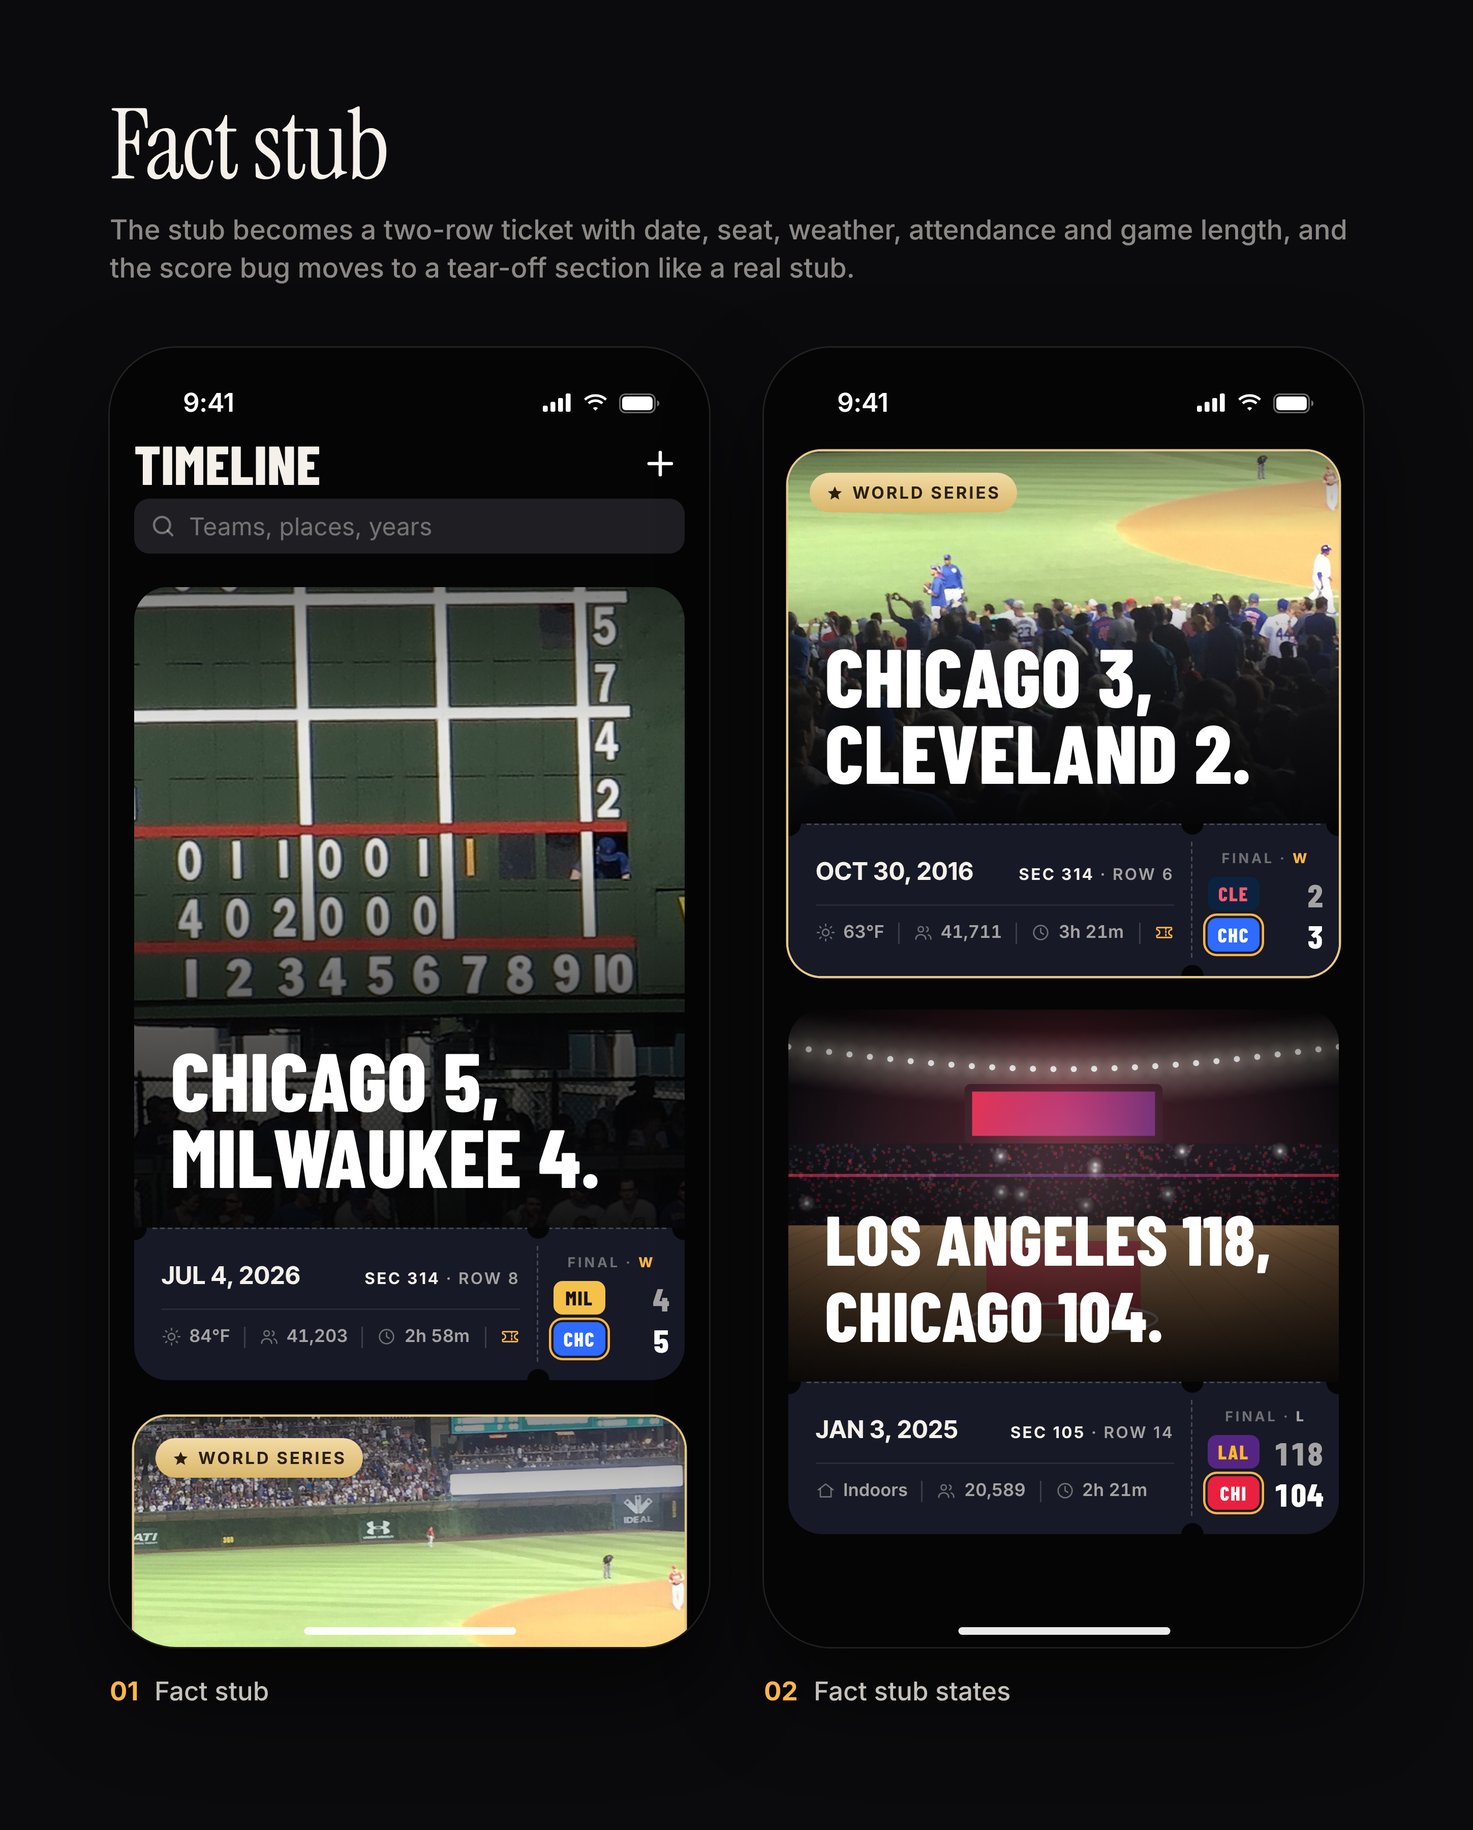
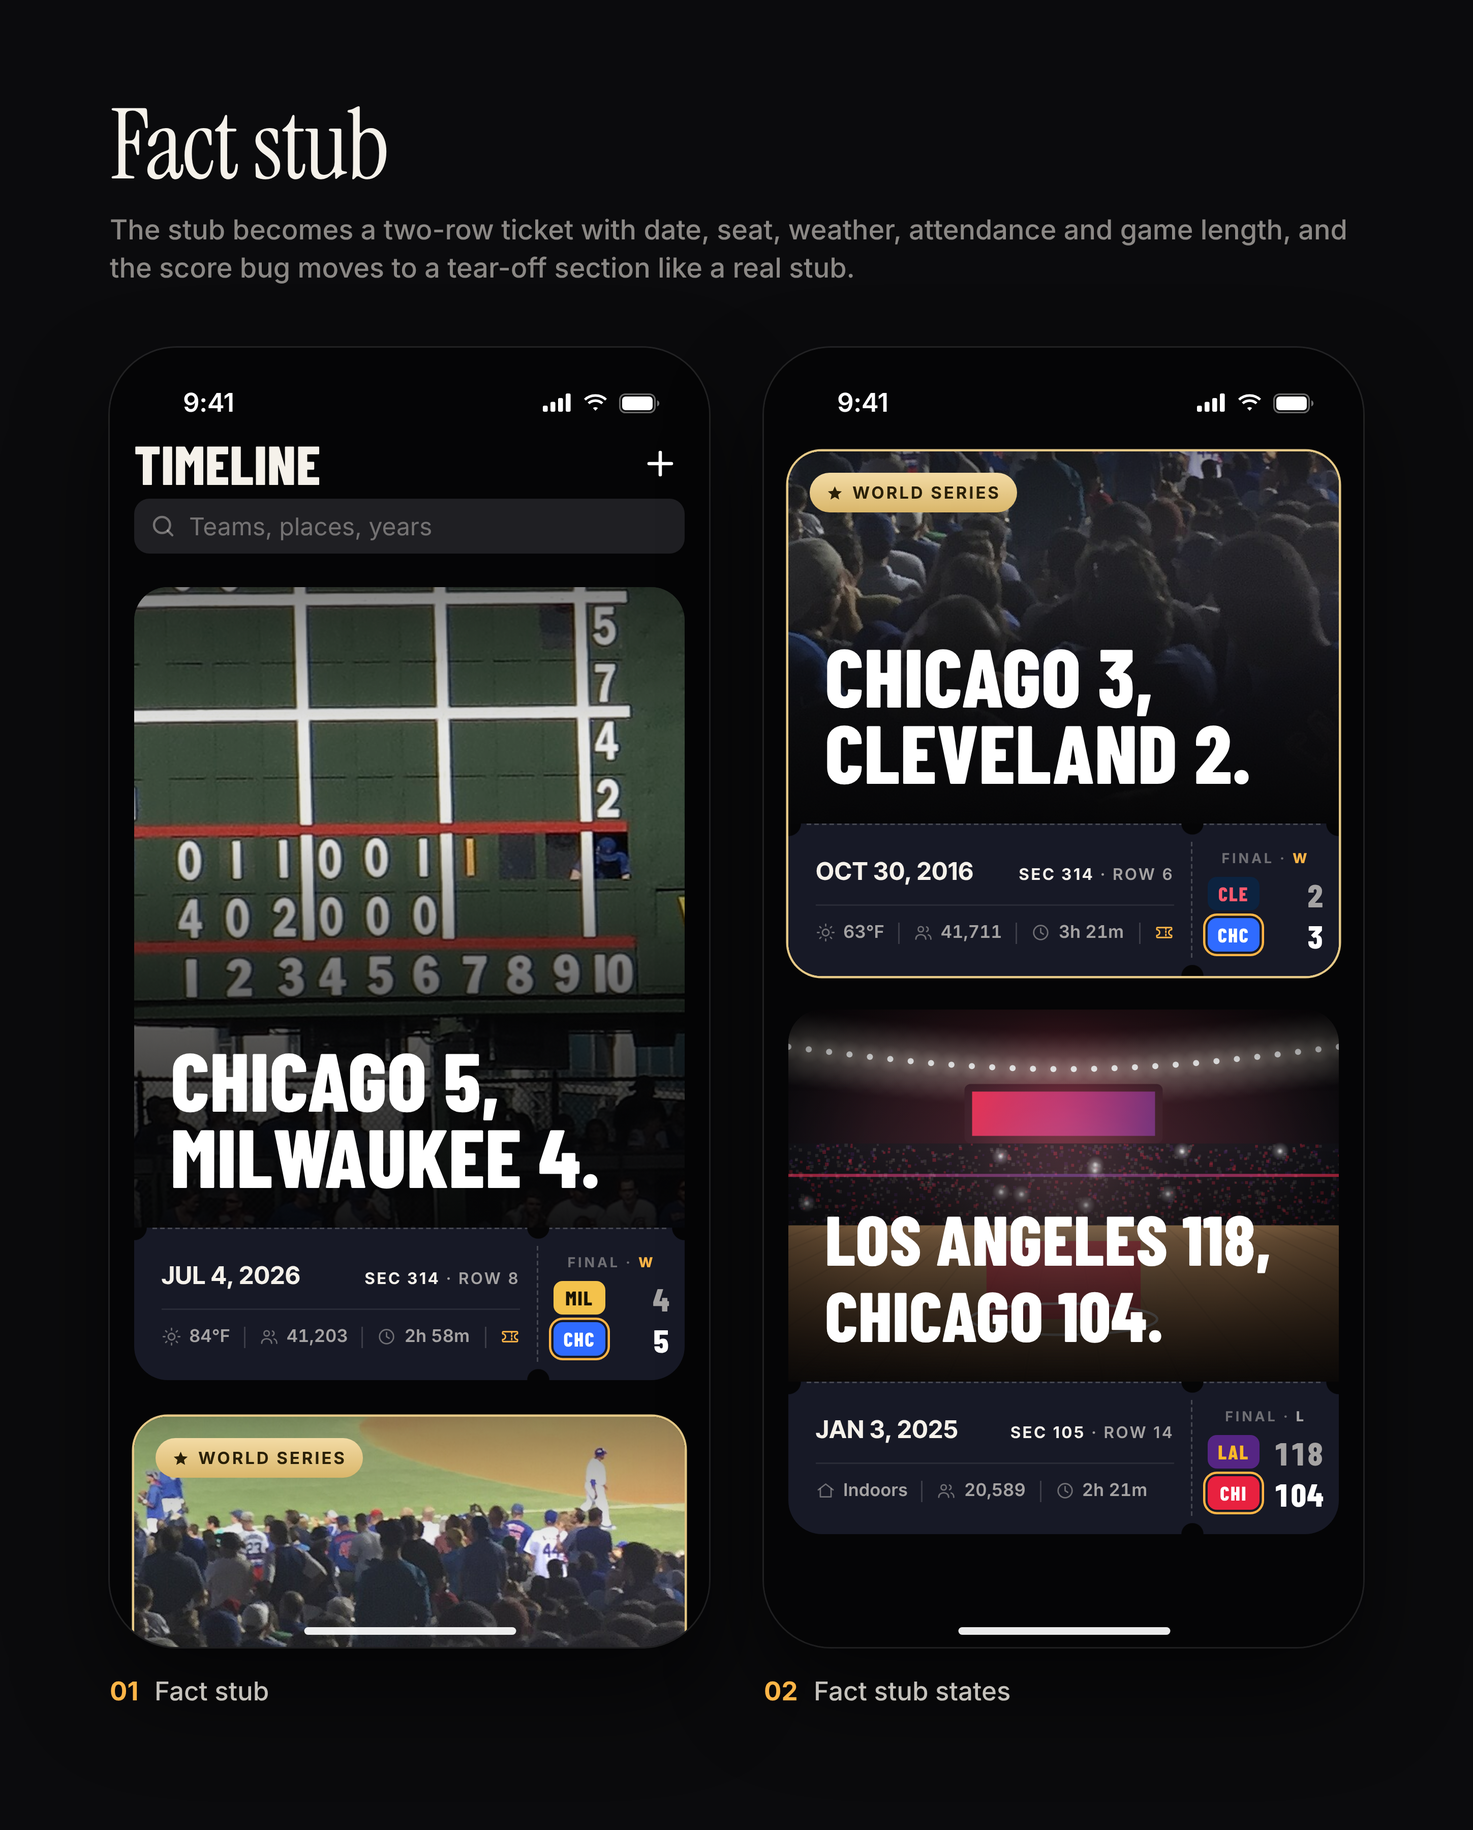
Timeline card tweaks: all ten mockups
Claude-Session: https://claude.ai/code/session_01YKCsRGYnDsF5Pryete24Wa

Changed region(s): [[0.0932, 0.7467, 0.4658, 0.9022], [0.528, 0.2489, 0.9317, 0.3733]]

diff --git a/mockups/timeline-cards/features/04-people-photos/v1-main.html b/mockups/timeline-cards/features/04-people-photos/v1-main.html
@@ -54,7 +54,7 @@ svg.i{width:13px;height:13px;stroke:currentColor;fill:none;stroke-width:1.7;stro
 <div class="search"><svg width="18" height="18" viewBox="0 0 24 24" fill="none" stroke="currentColor" stroke-width="2" stroke-linecap="round"><circle cx="11" cy="11" r="7"/><path d="M20 20l-4-4"/></svg>Teams, places, years</div><div class="card" style="top:157px"><div class="clip">
 <div class="photo" style="height:420px"><img class="ph graded" src="../../../photos/wrigley-scoreboard.jpg" style="object-position:35% 50%"><div class="scrim top"></div><div class="hl" style="font-size:48px">Chicago 5,<br>Milwaukee 4.</div><div class="poly"><div class="pl a"><div style="background-image:url(../../../photos/wrigley-bleachers.jpg);background-position:60% 50%;background-size:cover"></div></div><div class="pl b"><div style="background-image:url(../../../photos/wrigley-night-2.jpg);background-position:72% 66%;background-size:230%"></div></div><div class="pl c"><div style="background-image:url(../../../photos/wrigley-night.jpg);background-position:30% 62%;background-size:210%"></div><em>+59</em></div></div></div>
 <div class="stub"><div class="sl"><span class="date">Jul 4, 2026</span><div class="pp"><span class="av"><i style="background:#b79cff">D</i><i style="background:#8fe3a0">R</i></span><span class="cnt"><svg class="i" viewBox="0 0 24 24"><path d="M4 8.5A1.5 1.5 0 0 1 5.5 7H8l1.4-2h5.2L16 7h2.5A1.5 1.5 0 0 1 20 8.5v9a1.5 1.5 0 0 1-1.5 1.5h-13A1.5 1.5 0 0 1 4 17.5z"/><circle cx="12" cy="13" r="3.4"/></svg>63 photos</span></div></div><div class="bug"><span class="tile" style="background:#f4c24b;color:#1a1405">MIL</span><span class="sc">4</span><span class="gap"></span><span class="tile rt" style="background:#2f6bff;color:#fff">CHC</span><span class="sc me">5</span></div></div></div></div><div class="card big" style="top:701px"><div class="clip">
-<div class="photo" style="height:420px"><div style="position:absolute;inset:0;background:url(../../../photos/wrigley-night.jpg) -306px -418px/785px 1046px no-repeat"></div><div class="scrim top"></div><div class="badge"><svg width="11" height="11" viewBox="0 0 24 24" fill="#2a2008"><path d="M12 2l2.9 6.6 7.1.6-5.4 4.7 1.6 7L12 17.3 5.8 20.9l1.6-7L2 9.2l7.1-.6z"/></svg>World Series</div><div class="hl" style="font-size:48px">Chicago 3,<br>Cleveland 2.</div><div class="poly"><div class="pl a"><div style="background-image:url(../../../photos/wrigley-bleachers.jpg);background-position:30% 50%;background-size:cover"></div></div><div class="pl b"><div style="background-image:url(../../../photos/wrigley-night-2.jpg);background-position:72% 66%;background-size:230%"></div></div><div class="pl c"><div style="background-image:url(../../../photos/wrigley-scoreboard-wide.jpg);background-position:25% 60%;background-size:240%"></div><em>+59</em></div></div></div>
+<div class="photo" style="height:420px"><div style="position:absolute;inset:0;background:url(../../../photos/wrigley-night.jpg) -451px -632px/902px 1203px no-repeat"></div><div class="scrim top"></div><div class="badge"><svg width="11" height="11" viewBox="0 0 24 24" fill="#2a2008"><path d="M12 2l2.9 6.6 7.1.6-5.4 4.7 1.6 7L12 17.3 5.8 20.9l1.6-7L2 9.2l7.1-.6z"/></svg>World Series</div><div class="hl" style="font-size:48px">Chicago 3,<br>Cleveland 2.</div><div class="poly"><div class="pl a"><div style="background-image:url(../../../photos/wrigley-bleachers.jpg);background-position:30% 50%;background-size:cover"></div></div><div class="pl b"><div style="background-image:url(../../../photos/wrigley-night-2.jpg);background-position:72% 66%;background-size:230%"></div></div><div class="pl c"><div style="background-image:url(../../../photos/wrigley-scoreboard-wide.jpg);background-position:25% 60%;background-size:240%"></div><em>+59</em></div></div></div>
 <div class="stub"><div class="sl"><span class="date">Oct 30, 2016</span><div class="pp"><span class="av"><i style="background:#8fe3a0">R</i></span><span class="cnt"><svg class="i" viewBox="0 0 24 24"><path d="M4 8.5A1.5 1.5 0 0 1 5.5 7H8l1.4-2h5.2L16 7h2.5A1.5 1.5 0 0 1 20 8.5v9a1.5 1.5 0 0 1-1.5 1.5h-13A1.5 1.5 0 0 1 4 17.5z"/><circle cx="12" cy="13" r="3.4"/></svg>63 photos</span></div></div><div class="bug"><span class="tile" style="background:#0c2340;color:#ff5a6e">CLE</span><span class="sc">2</span><span class="gap"></span><span class="tile rt" style="background:#2f6bff;color:#fff">CHC</span><span class="sc me">3</span></div></div></div></div>
 <script src="../../../kit/kit.js"></script>
 </body></html>

diff --git a/mockups/timeline-cards/features/03-fact-stub/v1-main.html b/mockups/timeline-cards/features/03-fact-stub/v1-main.html
@@ -51,7 +51,7 @@ svg.i{width:13px;height:13px;stroke:currentColor;fill:none;stroke-width:1.7;stro
 <div class="photo" style="height:420px"><img class="ph graded" src="../../../photos/wrigley-scoreboard.jpg" style="object-position:35% 50%"><div class="scrim top"></div><div class="hl">Chicago 5,<br>Milwaukee 4.</div></div>
 <div class="stub"><div class="main"><div class="r1"><span class="date">Jul 4, 2026</span><span class="seat"><b>Sec 314</b> · Row 8</span></div><div class="r2"><span class="f"><svg class="i" viewBox="0 0 24 24"><circle cx="12" cy="12" r="4"/><path d="M12 2v2M12 20v2M2 12h2M20 12h2M4.9 4.9l1.4 1.4M17.7 17.7l1.4 1.4M4.9 19.1l1.4-1.4M17.7 6.3l1.4-1.4"/></svg>84°F</span><span class="f"><svg class="i" viewBox="0 0 24 24"><circle cx="9" cy="8" r="3.2"/><path d="M3 20c0-3.5 2.7-5.5 6-5.5s6 2 6 5.5"/><path d="M16 5.2a3 3 0 0 1 0 5.6M18 14.8c2 .7 3.2 2.4 3.2 5.2"/></svg>41,203</span><span class="f"><svg class="i" viewBox="0 0 24 24"><circle cx="12" cy="12" r="8.5"/><path d="M12 7v5l3.2 2"/></svg>2h 58m</span><span class="f tk"><svg class="i" viewBox="0 0 24 24"><path d="M3 8.5V7a1 1 0 0 1 1-1h16a1 1 0 0 1 1 1v1.5a3.5 3.5 0 0 0 0 7V17a1 1 0 0 1-1 1H4a1 1 0 0 1-1-1v-1.5a3.5 3.5 0 0 0 0-7z"/><path d="M14 6.5v11" stroke-dasharray="1.6 2.2"/></svg></span></div></div><div class="perf"></div>
 <div class="tear"><div class="fin">FINAL · <b class="">W</b></div><div class="row"><span class="tile" style="background:#f4c24b;color:#1a1405">MIL</span><span class="sc tnum">4</span></div><div class="row me"><span class="tile" style="background:#2f6bff;color:#fff">CHC</span><span class="sc tnum">5</span></div></div></div></div></div><div class="card big" style="top:701px"><div class="clip">
-<div class="photo" style="height:420px"><div style="position:absolute;inset:0;background:url(../../../photos/wrigley-night.jpg) -306px -418px/785px 1046px no-repeat"></div><div class="scrim top"></div><div class="badge"><svg width="11" height="11" viewBox="0 0 24 24" fill="#2a2008"><path d="M12 2l2.9 6.6 7.1.6-5.4 4.7 1.6 7L12 17.3 5.8 20.9l1.6-7L2 9.2l7.1-.6z"/></svg>World Series</div><div class="hl">Chicago 3,<br>Cleveland 2.</div></div>
+<div class="photo" style="height:420px"><div style="position:absolute;inset:0;background:url(../../../photos/wrigley-night.jpg) -451px -632px/902px 1203px no-repeat"></div><div class="scrim top"></div><div class="badge"><svg width="11" height="11" viewBox="0 0 24 24" fill="#2a2008"><path d="M12 2l2.9 6.6 7.1.6-5.4 4.7 1.6 7L12 17.3 5.8 20.9l1.6-7L2 9.2l7.1-.6z"/></svg>World Series</div><div class="hl">Chicago 3,<br>Cleveland 2.</div></div>
 <div class="stub"><div class="main"><div class="r1"><span class="date">Oct 30, 2016</span><span class="seat"><b>Sec 314</b> · Row 6</span></div><div class="r2"><span class="f"><svg class="i" viewBox="0 0 24 24"><circle cx="12" cy="12" r="4"/><path d="M12 2v2M12 20v2M2 12h2M20 12h2M4.9 4.9l1.4 1.4M17.7 17.7l1.4 1.4M4.9 19.1l1.4-1.4M17.7 6.3l1.4-1.4"/></svg>63°F</span><span class="f"><svg class="i" viewBox="0 0 24 24"><circle cx="9" cy="8" r="3.2"/><path d="M3 20c0-3.5 2.7-5.5 6-5.5s6 2 6 5.5"/><path d="M16 5.2a3 3 0 0 1 0 5.6M18 14.8c2 .7 3.2 2.4 3.2 5.2"/></svg>41,711</span><span class="f"><svg class="i" viewBox="0 0 24 24"><circle cx="12" cy="12" r="8.5"/><path d="M12 7v5l3.2 2"/></svg>3h 21m</span><span class="f tk"><svg class="i" viewBox="0 0 24 24"><path d="M3 8.5V7a1 1 0 0 1 1-1h16a1 1 0 0 1 1 1v1.5a3.5 3.5 0 0 0 0 7V17a1 1 0 0 1-1 1H4a1 1 0 0 1-1-1v-1.5a3.5 3.5 0 0 0 0-7z"/><path d="M14 6.5v11" stroke-dasharray="1.6 2.2"/></svg></span></div></div><div class="perf"></div>
 <div class="tear"><div class="fin">FINAL · <b class="">W</b></div><div class="row"><span class="tile" style="background:#0c2340;color:#ff5a6e">CLE</span><span class="sc tnum">2</span></div><div class="row me"><span class="tile" style="background:#2f6bff;color:#fff">CHC</span><span class="sc tnum">3</span></div></div></div></div></div>
 <script src="../../../kit/kit.js"></script>

diff --git a/mockups/timeline-cards/features/04-people-photos/v2-states.html b/mockups/timeline-cards/features/04-people-photos/v2-states.html
@@ -51,7 +51,7 @@ svg.i{width:13px;height:13px;stroke:currentColor;fill:none;stroke-width:1.7;stro
 </style></head>
 <body class="phone">
 <div class="card big" style="top:68px"><div class="clip">
-<div class="photo" style="height:244px"><div style="position:absolute;inset:0;background:url(../../../photos/wrigley-night.jpg) -306px -506px/785px 1046px no-repeat"></div><div class="scrim top"></div><div class="badge"><svg width="11" height="11" viewBox="0 0 24 24" fill="#2a2008"><path d="M12 2l2.9 6.6 7.1.6-5.4 4.7 1.6 7L12 17.3 5.8 20.9l1.6-7L2 9.2l7.1-.6z"/></svg>World Series</div><div class="hl" style="font-size:48px">Chicago 3,<br>Cleveland 2.</div><div class="poly"><div class="pl a"><div style="background-image:url(../../../photos/wrigley-bleachers.jpg);background-position:30% 50%;background-size:cover"></div></div><div class="pl b"><div style="background-image:url(../../../photos/wrigley-night-2.jpg);background-position:72% 66%;background-size:230%"></div></div><div class="pl c"><div style="background-image:url(../../../photos/wrigley-scoreboard-wide.jpg);background-position:25% 60%;background-size:240%"></div><em>+59</em></div></div></div>
+<div class="photo" style="height:244px"><div style="position:absolute;inset:0;background:url(../../../photos/wrigley-night.jpg) -451px -720px/902px 1203px no-repeat"></div><div class="scrim top"></div><div class="badge"><svg width="11" height="11" viewBox="0 0 24 24" fill="#2a2008"><path d="M12 2l2.9 6.6 7.1.6-5.4 4.7 1.6 7L12 17.3 5.8 20.9l1.6-7L2 9.2l7.1-.6z"/></svg>World Series</div><div class="hl" style="font-size:48px">Chicago 3,<br>Cleveland 2.</div><div class="poly"><div class="pl a"><div style="background-image:url(../../../photos/wrigley-bleachers.jpg);background-position:30% 50%;background-size:cover"></div></div><div class="pl b"><div style="background-image:url(../../../photos/wrigley-night-2.jpg);background-position:72% 66%;background-size:230%"></div></div><div class="pl c"><div style="background-image:url(../../../photos/wrigley-scoreboard-wide.jpg);background-position:25% 60%;background-size:240%"></div><em>+59</em></div></div></div>
 <div class="stub"><div class="sl"><span class="date">Oct 30, 2016</span><div class="pp"><span class="av"><i style="background:#8fe3a0">R</i></span><span class="cnt"><svg class="i" viewBox="0 0 24 24"><path d="M4 8.5A1.5 1.5 0 0 1 5.5 7H8l1.4-2h5.2L16 7h2.5A1.5 1.5 0 0 1 20 8.5v9a1.5 1.5 0 0 1-1.5 1.5h-13A1.5 1.5 0 0 1 4 17.5z"/><circle cx="12" cy="13" r="3.4"/></svg>63 photos</span></div></div><div class="bug"><span class="tile" style="background:#0c2340;color:#ff5a6e">CLE</span><span class="sc">2</span><span class="gap"></span><span class="tile rt" style="background:#2f6bff;color:#fff">CHC</span><span class="sc me">3</span></div></div></div></div><div class="card" style="top:434px"><div class="clip">
 <div class="photo" style="height:244px"><canvas class="photo" data-style="arena" data-seed="11" data-accent="#e8213f" data-secondary="#552583" data-board="LAL 118|CHI 104"></canvas><div class="scrim top"></div><div class="hl" style="font-size:46px">Los Angeles 118,<br>Chicago 104.</div></div>
 <div class="stub"><div class="sl"><span class="date">Jan 3, 2025</span><div class="pp"><span class="av"><i class="ghost"><svg class="i" viewBox="0 0 24 24"><path d="M12 5v14M5 12h14"/></svg></i></span><span class="add"><svg class="i" viewBox="0 0 24 24"><path d="M4 8.5A1.5 1.5 0 0 1 5.5 7H8l1.4-2h5.2L16 7h2.5A1.5 1.5 0 0 1 20 8.5v9a1.5 1.5 0 0 1-1.5 1.5h-13A1.5 1.5 0 0 1 4 17.5z"/><circle cx="12" cy="13" r="3.4"/></svg>Add photos</span></div></div><div class="bug"><span class="tile" style="background:#552583;color:#fdb927">LAL</span><span class="sc">118</span><span class="gap"></span><span class="tile rt" style="background:#e8213f;color:#fff">CHI</span><span class="sc me">104</span></div></div></div></div>

diff --git a/mockups/timeline-cards/features/03-fact-stub/v2-states.html b/mockups/timeline-cards/features/03-fact-stub/v2-states.html
@@ -47,7 +47,7 @@ svg.i{width:13px;height:13px;stroke:currentColor;fill:none;stroke-width:1.7;stro
 </style></head>
 <body class="phone">
 <div class="card big" style="top:68px"><div class="clip">
-<div class="photo" style="height:244px"><div style="position:absolute;inset:0;background:url(../../../photos/wrigley-night.jpg) -306px -506px/785px 1046px no-repeat"></div><div class="scrim top"></div><div class="badge"><svg width="11" height="11" viewBox="0 0 24 24" fill="#2a2008"><path d="M12 2l2.9 6.6 7.1.6-5.4 4.7 1.6 7L12 17.3 5.8 20.9l1.6-7L2 9.2l7.1-.6z"/></svg>World Series</div><div class="hl">Chicago 3,<br>Cleveland 2.</div></div>
+<div class="photo" style="height:244px"><div style="position:absolute;inset:0;background:url(../../../photos/wrigley-night.jpg) -451px -720px/902px 1203px no-repeat"></div><div class="scrim top"></div><div class="badge"><svg width="11" height="11" viewBox="0 0 24 24" fill="#2a2008"><path d="M12 2l2.9 6.6 7.1.6-5.4 4.7 1.6 7L12 17.3 5.8 20.9l1.6-7L2 9.2l7.1-.6z"/></svg>World Series</div><div class="hl">Chicago 3,<br>Cleveland 2.</div></div>
 <div class="stub"><div class="main"><div class="r1"><span class="date">Oct 30, 2016</span><span class="seat"><b>Sec 314</b> · Row 6</span></div><div class="r2"><span class="f"><svg class="i" viewBox="0 0 24 24"><circle cx="12" cy="12" r="4"/><path d="M12 2v2M12 20v2M2 12h2M20 12h2M4.9 4.9l1.4 1.4M17.7 17.7l1.4 1.4M4.9 19.1l1.4-1.4M17.7 6.3l1.4-1.4"/></svg>63°F</span><span class="f"><svg class="i" viewBox="0 0 24 24"><circle cx="9" cy="8" r="3.2"/><path d="M3 20c0-3.5 2.7-5.5 6-5.5s6 2 6 5.5"/><path d="M16 5.2a3 3 0 0 1 0 5.6M18 14.8c2 .7 3.2 2.4 3.2 5.2"/></svg>41,711</span><span class="f"><svg class="i" viewBox="0 0 24 24"><circle cx="12" cy="12" r="8.5"/><path d="M12 7v5l3.2 2"/></svg>3h 21m</span><span class="f tk"><svg class="i" viewBox="0 0 24 24"><path d="M3 8.5V7a1 1 0 0 1 1-1h16a1 1 0 0 1 1 1v1.5a3.5 3.5 0 0 0 0 7V17a1 1 0 0 1-1 1H4a1 1 0 0 1-1-1v-1.5a3.5 3.5 0 0 0 0-7z"/><path d="M14 6.5v11" stroke-dasharray="1.6 2.2"/></svg></span></div></div><div class="perf"></div>
 <div class="tear"><div class="fin">FINAL · <b class="">W</b></div><div class="row"><span class="tile" style="background:#0c2340;color:#ff5a6e">CLE</span><span class="sc tnum">2</span></div><div class="row me"><span class="tile" style="background:#2f6bff;color:#fff">CHC</span><span class="sc tnum">3</span></div></div></div></div></div><div class="card" style="top:434px"><div class="clip">
 <div class="photo" style="height:244px"><canvas class="photo" data-style="arena" data-seed="11" data-accent="#e8213f" data-secondary="#552583" data-board="LAL 118|CHI 104"></canvas><div class="scrim top"></div><div class="hl"><span style="font-size:46px">Los Angeles 118,<br>Chicago 104.</span></div></div>

diff --git a/mockups/timeline-cards/features/03-fact-stub/build.py b/mockups/timeline-cards/features/03-fact-stub/build.py
@@ -45,7 +45,7 @@ CARDS = {
  1: dict(hl='Chicago 5,<br>Milwaukee 4.', date='Jul 4, 2026', seat='<b>Sec 314</b> · Row 8', wx='84°F', att='41,203', len='2h 58m', tk=True,
          photo=lambda ph: f'<img class="ph graded" src="{P}wrigley-scoreboard.jpg" style="object-position:35% 50%">', bug=('MIL',4,'CHC',5,'CHC','W')),
  2: dict(hl='Chicago 3,<br>Cleveland 2.', date='Oct 30, 2016', seat='<b>Sec 314</b> · Row 6', wx='63°F', att='41,711', len='3h 21m', tk=True, badge='World Series',
-         photo=img('wrigley-night',361,0,.62,.60,.46), bug=('CLE',2,'CHC',3,'CHC','W')),
+         photo=img('wrigley-night',361,0,.70,.70,.40), bug=('CLE',2,'CHC',3,'CHC','W')),
  3: dict(hl='<span style="font-size:46px">Los Angeles 118,<br>Chicago 104.</span>', date='Jan 3, 2025', seat='<b>Sec 105</b> · Row 14', wx=None, att='20,589', len='2h 21m', tk=False,
          photo=lambda ph: '<canvas class="photo" data-style="arena" data-seed="11" data-accent="#e8213f" data-secondary="#552583" data-board="LAL 118|CHI 104"></canvas>', bug=('LAL',118,'CHI',104,'CHI','L')),
 }

diff --git a/mockups/timeline-cards/features/04-people-photos/build.py b/mockups/timeline-cards/features/04-people-photos/build.py
@@ -52,7 +52,7 @@ CARDS = {
    photo=lambda ph: f'<img class="ph graded" src="{P}wrigley-scoreboard.jpg" style="object-position:35% 50%">', bug=('MIL',4,'CHC',5,'CHC'),
    thumbs=[('wrigley-bleachers','60% 50%'),('wrigley-night-2','72% 66%','230%'),('wrigley-night','30% 62%','210%')]),
  2: dict(hl='Chicago 3,<br>Cleveland 2.', date='Oct 30, 2016', who=[DAD], n=63, badge='World Series',
-   photo=img('wrigley-night',.62,.60,.46), bug=('CLE',2,'CHC',3,'CHC'),
+   photo=img('wrigley-night',.70,.70,.40), bug=('CLE',2,'CHC',3,'CHC'),
    thumbs=[('wrigley-bleachers','30% 50%'),('wrigley-night-2','72% 66%','230%'),('wrigley-scoreboard-wide','25% 60%','240%')]),
  3: dict(hl='Los Angeles 118,<br>Chicago 104.', hs='font-size:46px', date='Jan 3, 2025', who=[], n=0,
    photo=lambda ph: '<canvas class="photo" data-style="arena" data-seed="11" data-accent="#e8213f" data-secondary="#552583" data-board="LAL 118|CHI 104"></canvas>', bug=('LAL',118,'CHI',104,'CHI')),
